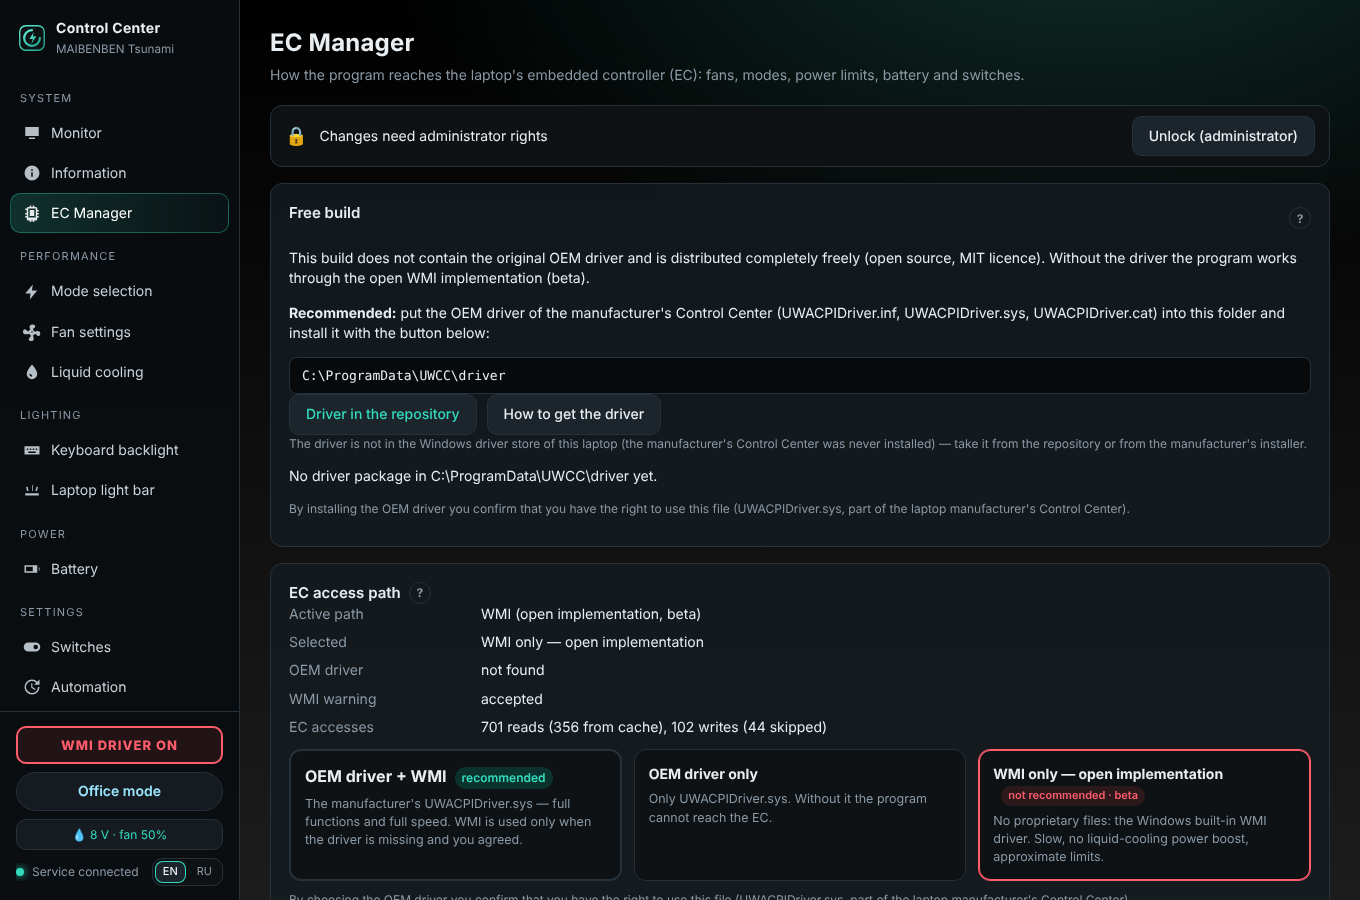
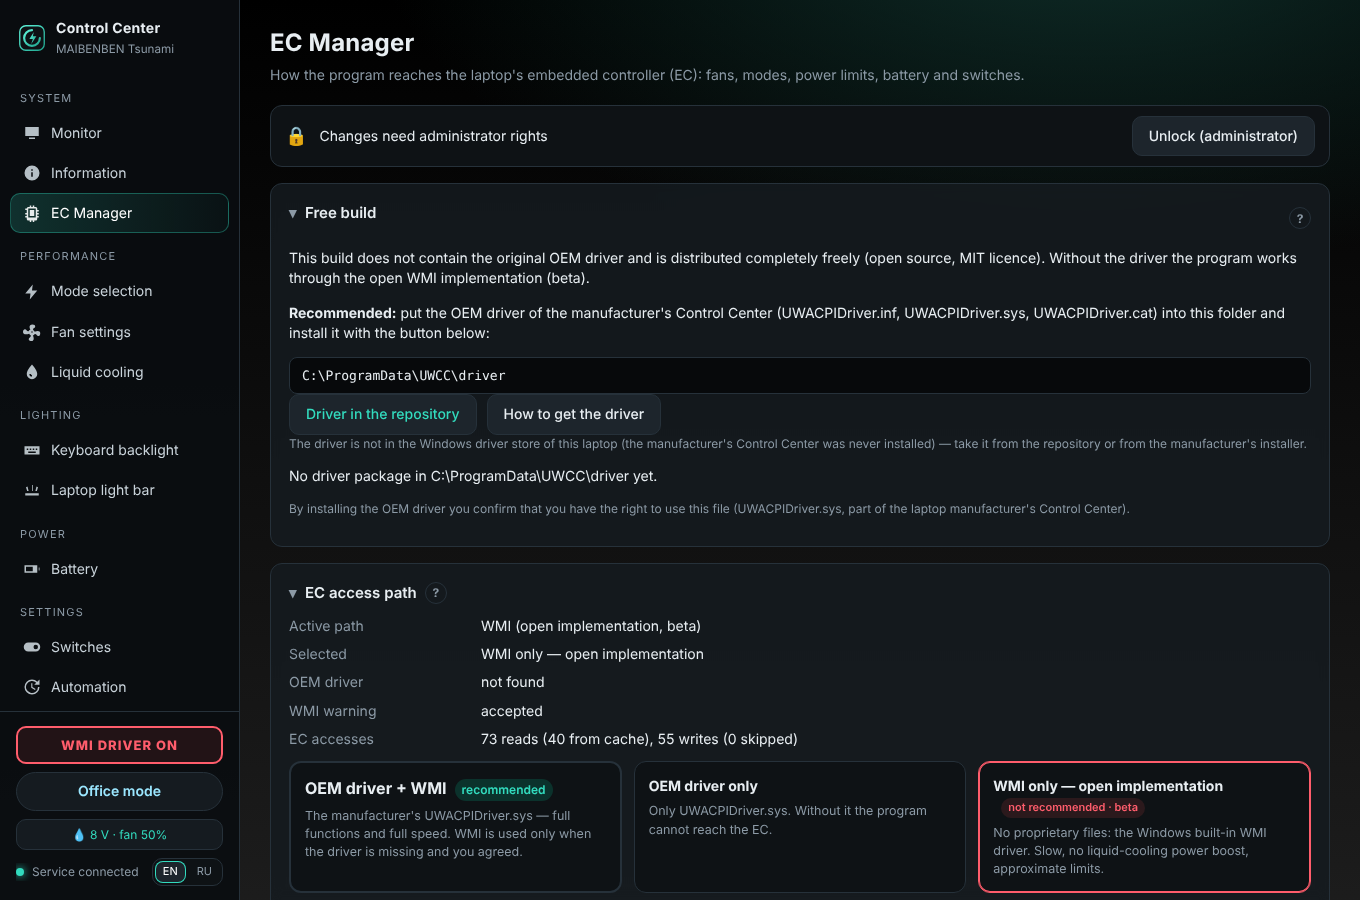
1.6.2: built-in help, OEM driver fetch + check, monitoring settings, forced EC backup in self-check, new screenshots

Changed region(s): [[0.2162, 0.6533, 0.9574, 1.0], [0.2162, 0.2178, 0.2779, 0.2489]]

diff --git a/uwccd/web/app.js b/uwccd/web/app.js
@@ -1637,7 +1637,7 @@ function renderDriver() {
   for (const p of EC_PATHS) box.append(h("div", { class: "choice" + (a.setting === p.id ? " on" : "") + (p.id === "wmi" ? " risky" : "") + (p.rec ? " rec" : ""),
     onclick: () => chooseEcPath(p.id) },
     h("h4", {}, t(p.name), p.tag ? h("span", { class: "tag" + (p.id === "wmi" ? " bad" : "") + (p.rec ? " good" : "") }, t(p.tag)) : null), h("p", {}, t(p.desc))));
-  renderAdmin(); renderEdition(a); renderPlatform(a); renderMonitoring(a); renderSelfcheck(a);
+  renderAdmin(); renderEdition(a); renderPlatform(a); renderMonitoring(a); renderSelfcheck(a); setupCollapsible();
   // info page block
   $("#info-ec").classList.remove("hidden");
   dl($("#info-ec-kv"), ecKv(a));
@@ -1756,7 +1756,7 @@ function showWmiWarning() {
           h("p", {}, t("Changing these settings needs administrator rights: Windows will ask for them (UAC).")),
           h("p", {}, h("b", {}, t("Risks"))),
           h("p", {}, t("This is a beta. On another laptop model the same WMI call may mean something else: a wrong write to the EC can disturb fans, charging or power until the laptop is fully powered off. Use it at your own risk; we recommend the OEM driver.")),
-          h("p", { class: "red-warn" }, t("WE DO NOT RECOMMEND using this function on platforms other than {0}.", a ? a.tested_names : "")),
+          h("p", { class: "red-warn" }, t("The settings were made for {0} and similar systems; we have not tested other platforms. You can check which functions work on your laptop with the self-check (EC Manager).", a ? a.tested_names : "")),
           other ? h("p", { class: "red-warn" }, t("This laptop reports a different platform!")) : null,
           h("p", {}, h("a", { href: a ? a.docs : "#", target: "_blank", rel: "noopener" }, t("Documentation: EC registers, OEM driver vs WMI (GitHub)")))),
         h("div", { class: "eula-foot" }, h("label", { class: "eula-check" }, chk, h("span", {}, t("I understand the risks"))), h("div", { class: "row" }, cancel, ok))));
@@ -2020,6 +2020,9 @@ let scLoaded = null;
 async function renderSelfcheck(a) {
   const sc = a.selfcheck || {};
   const last = sc.last;
+  const s2 = $("#dm-sc-2");
+  s2.disabled = !sc.stage1_done || !!sc.running;
+  s2.title = sc.stage1_done ? "" : t("Run stage 1 (read only) first");
   $("#dm-sc-state").textContent = sc.running ? t("Running stage {0}…", sc.running)
     : last ? t("Last check: stage {0}, {1}", last.stage, new Date(last.time * 1000).toLocaleString(LANG === "ru" ? "ru-RU" : "en-GB")) : t("Not run yet.");
   const key = last ? last.time : null;
@@ -2211,3 +2214,32 @@ $(`#nav a[data-page="help"]`)?.addEventListener("click", () => { if (!helpCur) o
     el.before(wrap); wrap.append(el, helpLink(id, a));
   }
 })();
+
+// ---------------------------------------------------------------- EC Manager: cards fold by a click on their title
+function setupCollapsible() {
+  let saved = {};
+  try { saved = JSON.parse(localStorage.getItem("uwcc-folded") || "{}"); } catch (_) {}
+  for (const card of $$("#page-driver > .card")) {
+    const h3 = card.querySelector("h3");
+    if (!h3) continue;
+    let head = h3;                                   // the direct child of the card that holds the title
+    while (head.parentElement && head.parentElement !== card) head = head.parentElement;
+    head.classList.add("card-head");
+    const key = card.id || h3.dataset.en || h3.textContent;
+    if (!h3.dataset.fold) {
+      h3.dataset.fold = "1";
+      h3.classList.add("fold-title");
+      h3.setAttribute("role", "button");
+      h3.tabIndex = 0;
+      const toggle = () => {
+        const on = !card.classList.contains("folded");
+        card.classList.toggle("folded", on);
+        try { const m = JSON.parse(localStorage.getItem("uwcc-folded") || "{}"); m[key] = on; localStorage.setItem("uwcc-folded", JSON.stringify(m)); } catch (_) {}
+      };
+      h3.addEventListener("click", toggle);
+      h3.addEventListener("keydown", e => { if (e.key === "Enter" || e.key === " ") { e.preventDefault(); toggle(); } });
+      card.classList.toggle("folded", !!saved[key]);
+    }
+    h3.setAttribute("aria-expanded", String(!card.classList.contains("folded")));
+  }
+}

diff --git a/uwccd/web/i18n.js b/uwccd/web/i18n.js
@@ -172,7 +172,7 @@ const RU = {
   "This laptop reports a different platform!": "Этот ноутбук сообщает другую платформу!",
   "Use WMI (beta)…": "Включить WMI (бета)…",
   "Use only the open WMI implementation? Not recommended: it is slow and some functions are unavailable.": "Использовать только открытую реализацию через WMI? Не рекомендуется: она медленная, и часть функций недоступна.",
-  "WE DO NOT RECOMMEND using this function on platforms other than {0}.": "НЕ РЕКОМЕНДУЕМ использовать эту функцию на платформах, отличных от {0}.",
+  "The settings were made for {0} and similar systems; we have not tested other platforms. You can check which functions work on your laptop with the self-check (EC Manager).": "Настройки сделаны для {0} и подобных систем; работу на других платформах мы не проверяли. Совместимость функций с вашим ноутбуком можно проверить самопроверкой (менеджер EC).",
   "WMI call timeout, s": "Тайм-аут вызова WMI, с",
   "WMI instance (suffix)": "Экземпляр WMI (окончание)",
   "WMI only — open implementation": "Только WMI — открытая реализация",
@@ -687,4 +687,5 @@ Object.assign(RU, {
   "{0} of {1} controller values read back equal after the test.": "После проверки {0} из {1} значений контроллера совпали с сохранёнными.",
   "The controller may change some values itself (fans, mode bits). The current mode profile was applied again.": "Контроллер может сам менять некоторые значения (вентиляторы, биты режима). Текущий профиль режима применён заново.",
   "Backup file: {0}": "Файл копии: {0}", "EC backup": "Резервная копия EC",
+  "Run stage 1 (read only) first": "Сначала выполните ступень 1 (только чтение)",
 });

diff --git a/uwccd/web/index.html b/uwccd/web/index.html
@@ -151,10 +151,10 @@
       <div class="card" id="dm-selfcheck">
         <div class="row between wrap"><h3 data-i>Self-check</h3>
           <div class="row wrap">
-            <button class="btn ghost" id="dm-sc-export" data-i>Export for GitHub</button>
+            <button class="btn" id="dm-sc-1" data-i>Stage 1: read only</button>
+            <button class="btn ghost" id="dm-sc-2" disabled data-i>Stage 2: with writes</button>
             <button class="btn ghost" id="dm-sc-apply" disabled data-i>Apply as platform profile</button>
-            <button class="btn ghost" id="dm-sc-2" data-i>Stage 2: with writes</button>
-            <button class="btn" id="dm-sc-1" data-i>Stage 1: read only</button></div></div>
+            <button class="btn ghost" id="dm-sc-export" data-i>Export for GitHub</button></div></div>
         <p class="muted tiny" data-i>Stage 1 only reads: identity, access paths (both compared byte by byte when the OEM driver and WMI are present), plausibility of known registers, time per access, firmware methods. Stage 2 (administrator, on AC power) switches every function a little and back with read-back: mode, Fan Boost, PL1, cTGP, charge limit, Fn Lock, the fan-table handshake; the registers are saved first and restored even after a crash. The result lists what works, what is not clear, and a draft platform profile.</p>
         <p class="muted" id="dm-sc-state"></p>
         <div id="dm-sc-out"></div>

diff --git a/uwccd/web/app.css b/uwccd/web/app.css
@@ -292,3 +292,12 @@ pre.code{margin:0;padding:10px 12px;background:var(--bg0);border:1px solid var(-
 @media (max-width:900px){.help-wrap{grid-template-columns:1fr}.help-toc{position:static}}
 .h-help{display:inline-flex;align-items:center;gap:2px}.h-help h3{margin:0}
 .busy-backup{margin:0;padding:10px 12px;border:1px solid var(--acc);border-radius:10px;background:rgba(50,219,190,.08);font-size:13px;overflow-wrap:anywhere}
+/* EC Manager: folding cards, spacing under the header buttons */
+#page-driver .card-head{margin-bottom:12px}
+#page-driver .card.folded .card-head{margin-bottom:0}
+#page-driver .card.folded > :not(.card-head){display:none!important}
+#page-driver .card.folded .card-head .row:not(.h-help){display:none}
+.fold-title{cursor:pointer;user-select:none}
+.fold-title::before{content:"▾";display:inline-block;width:16px;color:var(--muted);transition:transform .15s}
+.card.folded .fold-title::before{transform:rotate(-90deg)}
+.fold-title:hover{color:var(--acc)}

diff --git a/uwccd/selfcheck.py b/uwccd/selfcheck.py
@@ -99,6 +99,7 @@ class SelfCheck:
         self.lock = threading.Lock()
         self.running = None
         self.last = store.load_json(store.path(LAST))
+        self.stage1_done = None          # EC path of a stage 1 finished without error since the service started
 
     # -- helpers ---------------------------------------------------------------------------------
     @staticmethod
@@ -121,7 +122,7 @@ class SelfCheck:
         counts = {}
         for it in r.get("items", []):
             counts[it["status"]] = counts.get(it["status"], 0) + 1
-        return {"running": self.running,
+        return {"running": self.running, "stage1_done": self.stage1_done == self.svc.ec_info.get("active"),
                 "last": {"time": r.get("time"), "stage": r.get("stage"), "path": r.get("path"), "counts": counts,
                          "unknowns": len(r.get("unknowns", []))} if r else None}
 
@@ -132,6 +133,8 @@ class SelfCheck:
                 raise LookupError("the self-check is already running")
             if self.svc.ec_info.get("active") == "none":
                 raise LookupError("no EC access")
+            if stage == 2 and self.stage1_done != self.svc.ec_info.get("active"):
+                raise LookupError("run stage 1 (read only) first")
             if stage == 2 and not self.svc.monitor.ac_online():
                 raise ValueError("connect the charger: the check with writes runs on AC power only")
             self.running = stage
@@ -143,6 +146,7 @@ class SelfCheck:
                 r = self.run(stage)
             self.last = r
             store.save_json(store.path(LAST), r)
+            self.stage1_done = r.get("path")
             log.info("self-check stage %d: %s", stage, self.summary()["last"]["counts"])
         except Exception as e:  # noqa: BLE001
             log.exception("self-check")

diff --git a/tests/test_mock.py b/tests/test_mock.py
@@ -428,6 +428,8 @@ class EcAccessService(MockService):
         self.post("setting", {"key": "monitor_off_wmi", "value": False})
         self.assertEqual(self.get("state")["monitoring"], "full")
         # self-check: stage 1 reads; stage 2 needs the administrator key, writes and restores
+        self.assertEqual(self.apost("selfcheck", {"stage": 2})[0], 409)          # stage 1 first
+        self.assertFalse(self.get("selfcheck")["stage1_done"])
         code, _ = self.post("selfcheck", {"stage": 1})
         self.assertEqual(code, 200)
         r = self.wait_selfcheck()["result"]

diff --git a/docs/EC/WMI-vs-Driver.ru.md b/docs/EC/WMI-vs-Driver.ru.md
@@ -47,7 +47,7 @@
 | Ситуация | Потеря без драйвера |
 |---|---|
 | Без СЖО | по замерам — ничего существенного; медленнее опрос и запись таблиц |
-| СЖО подключена | нет `PWUP`: лимит видеокарты 160 Вт вместо 175 Вт, частота ~1860 вместо ~2120 МГц (**−13…15 %**) в Turbo + Super performance |
+| СЖО подключена | нет `PWUP`: лимит видеокарты 150 Вт вместо 175 Вт, частота ~1860 вместо ~2120 МГц (**−13…15 %**) в Turbo + Super performance |
 | Ползунки PL / TCC / DB | без `SMRW` пределы берутся из заводских PL в EC (`pl1_max` = Turbo PL1) и значений по умолчанию (TCC, DB 25 Вт) |
 
 Замер `PWUP` (Turbo + Super performance + FanBoost + Dynamic Boost, полная нагрузка на видеокарту):
@@ -55,9 +55,9 @@
 | Фаза | Лимит | Частота |
 |---|---|---|
 | Office, уровень EC 4 | 150 Вт | 2002 МГц |
-| `PWUP(0)` драйвером | 160 Вт | 1859 МГц |
-| «уровень 5» через WMI после `PWUP(0)` | 160 Вт | 1868 МГц — не сработало |
-| `PWUP(0)` драйвером повторно | 160 Вт | 1855 МГц |
+| `PWUP(0)` драйвером | 150 Вт | 1859 МГц |
+| «уровень 5» через WMI после `PWUP(0)` | 150 Вт | 1868 МГц — не сработало |
+| `PWUP(0)` драйвером повторно | 150 Вт | 1855 МГц |
 | `PWUP(4)` драйвером | 175 Вт | 2114–2144 МГц |
 | `PWUP(5)` драйвером | 175 Вт | 2101–2193 МГц |
 

diff --git a/docs/EC/WMI-vs-Driver.md b/docs/EC/WMI-vs-Driver.md
@@ -47,7 +47,7 @@ The WMI delay is built into the firmware (wait loops with `Sleep(50)` inside `RK
 | Situation | Loss without the driver |
 |---|---|
 | No liquid cooler | nothing significant in the measurements; slower polling and table writes |
-| Liquid cooler connected | no `PWUP`: GPU limit 160 W instead of 175 W, clock ~1860 instead of ~2120 MHz (**−13…15 %**) in Turbo + Super performance |
+| Liquid cooler connected | no `PWUP`: GPU limit 150 W instead of 175 W, clock ~1860 instead of ~2120 MHz (**−13…15 %**) in Turbo + Super performance |
 | PL / TCC / DB sliders | without `SMRW` the limits come from the factory PL in the EC (`pl1_max` = Turbo PL1) and defaults (TCC, DB 25 W) |
 
 `PWUP` measurement (Turbo + Super performance + FanBoost + Dynamic Boost, full GPU load):
@@ -55,9 +55,9 @@ The WMI delay is built into the firmware (wait loops with `Sleep(50)` inside `RK
 | Phase | Limit | Clock |
 |---|---|---|
 | Office, EC level 4 | 150 W | 2002 MHz |
-| `PWUP(0)` via the driver | 160 W | 1859 MHz |
-| "level 5" via WMI after `PWUP(0)` | 160 W | 1868 MHz — no effect |
-| `PWUP(0)` via the driver again | 160 W | 1855 MHz |
+| `PWUP(0)` via the driver | 150 W | 1859 MHz |
+| "level 5" via WMI after `PWUP(0)` | 150 W | 1868 MHz — no effect |
+| `PWUP(0)` via the driver again | 150 W | 1855 MHz |
 | `PWUP(4)` via the driver | 175 W | 2114–2144 MHz |
 | `PWUP(5)` via the driver | 175 W | 2101–2193 MHz |
 

diff --git a/docs/EC/WMI-config.ru.md b/docs/EC/WMI-config.ru.md
@@ -13,8 +13,9 @@
 Способ выбирается в установщике, в **менеджере драйвера** в окне или командой `uwccctl driver use auto|oem|wmi`.
 WMI используется только после того, как в окне принято предупреждение.
 
-> ⚠ **Не рекомендуем использовать WMI на платформах, отличных от MAIBENBEN Tsunami X629 / Mechrevo Questyle 16 Super /
-> XMG NEO 16 (E23)** (проект Uniwill `0x10`). На другой модели тот же вызов WMI может означать другое.
+> ⚠ **Настройки сделаны для MAIBENBEN Tsunami X629 / Mechrevo Questyle 16 Super / XMG NEO 16 (E23)** (проект Uniwill
+> `0x10`) и подобных систем; работу на других платформах мы не проверяли. Совместимость функций с вашим ноутбуком можно
+> проверить самопроверкой (менеджер EC → Самопроверка, см. [Platforms.ru.md](Platforms.ru.md)).
 
 Что WMI умеет и чего не умеет, и замеры: [WMI-vs-Driver.ru.md](WMI-vs-Driver.ru.md).
 Справочник регистров: [Registers.ru.md](Registers.ru.md).

diff --git a/docs/EC/WMI-config.md b/docs/EC/WMI-config.md
@@ -13,8 +13,9 @@ open-uniwill-cc can reach the embedded controller (EC) on Windows in two ways:
 The path is chosen in the installer, in **EC Manager** in the window, or with `uwccctl driver use auto|oem|wmi`.
 The WMI path is used only after the warning in the window was accepted.
 
-> ⚠ **We do not recommend the WMI path on platforms other than MAIBENBEN Tsunami X629 / Mechrevo Questyle 16 Super /
-> XMG NEO 16 (E23)** (Uniwill project `0x10`). On another model the same WMI call may mean something else.
+> ⚠ **The settings were made for MAIBENBEN Tsunami X629 / Mechrevo Questyle 16 Super / XMG NEO 16 (E23)** (Uniwill
+> project `0x10`) and similar systems; we have not tested other platforms. You can check which functions work on your
+> laptop with the self-check (EC Manager → Self-check, see [Platforms.md](Platforms.md)).
 
 What the WMI path can and cannot do, and the measurements behind it: [WMI-vs-Driver.md](WMI-vs-Driver.md).
 Register reference: [Registers.md](Registers.md).

diff --git a/docs/EC/Registers.ru.md b/docs/EC/Registers.ru.md
@@ -170,7 +170,7 @@ bit7 — режим Custom. На Tsunami `0x00`.
 
 | Уровень | Лимит видеокарты | Частота | Темп. |
 |---|---|---|---|
-| 0 | 160 Вт | 1855–1859 МГц | 71 °C |
+| 0 | 150 Вт | 1855–1859 МГц | 71 °C |
 | 4 | 175 Вт | 2114–2144 МГц | 79 °C |
 | 5 | 175 Вт | 2101–2193 МГц | 76–80 °C |
 | Office, уровень 4 (для сравнения) | 150 Вт | 2002–2058 МГц | 72 °C |

diff --git a/docs/EC/Registers.md b/docs/EC/Registers.md
@@ -172,7 +172,7 @@ ACPI device `INOU0000`, methods in the DSDT:
 
 | Level | GPU limit | Clock | Temp. |
 |---|---|---|---|
-| 0 | 160 W | 1855–1859 MHz | 71 °C |
+| 0 | 150 W | 1855–1859 MHz | 71 °C |
 | 4 | 175 W | 2114–2144 MHz | 79 °C |
 | 5 | 175 W | 2101–2193 MHz | 76–80 °C |
 | Office, level 4 (for comparison) | 150 W | 2002–2058 MHz | 72 °C |
